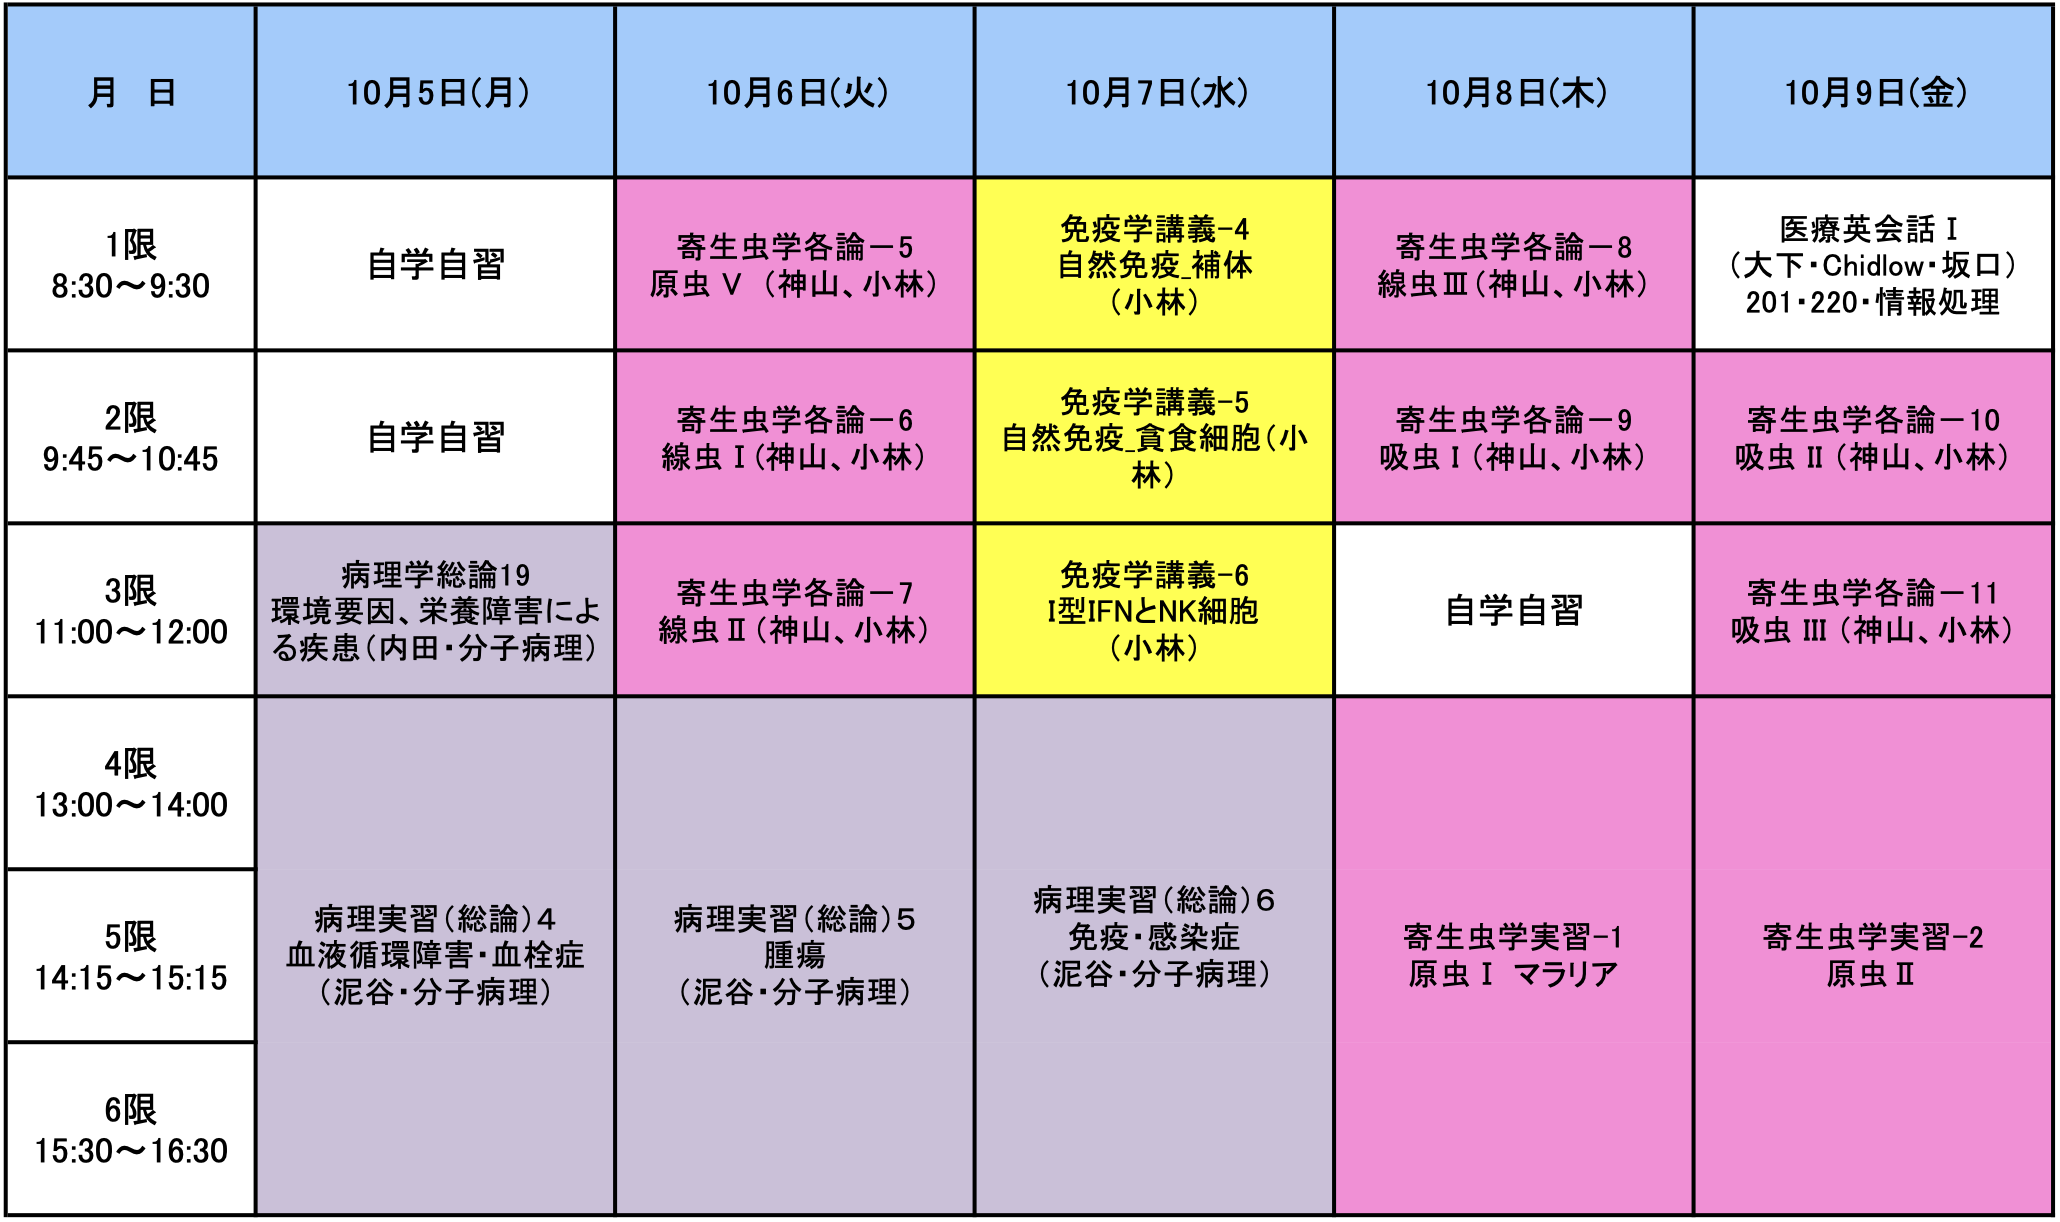
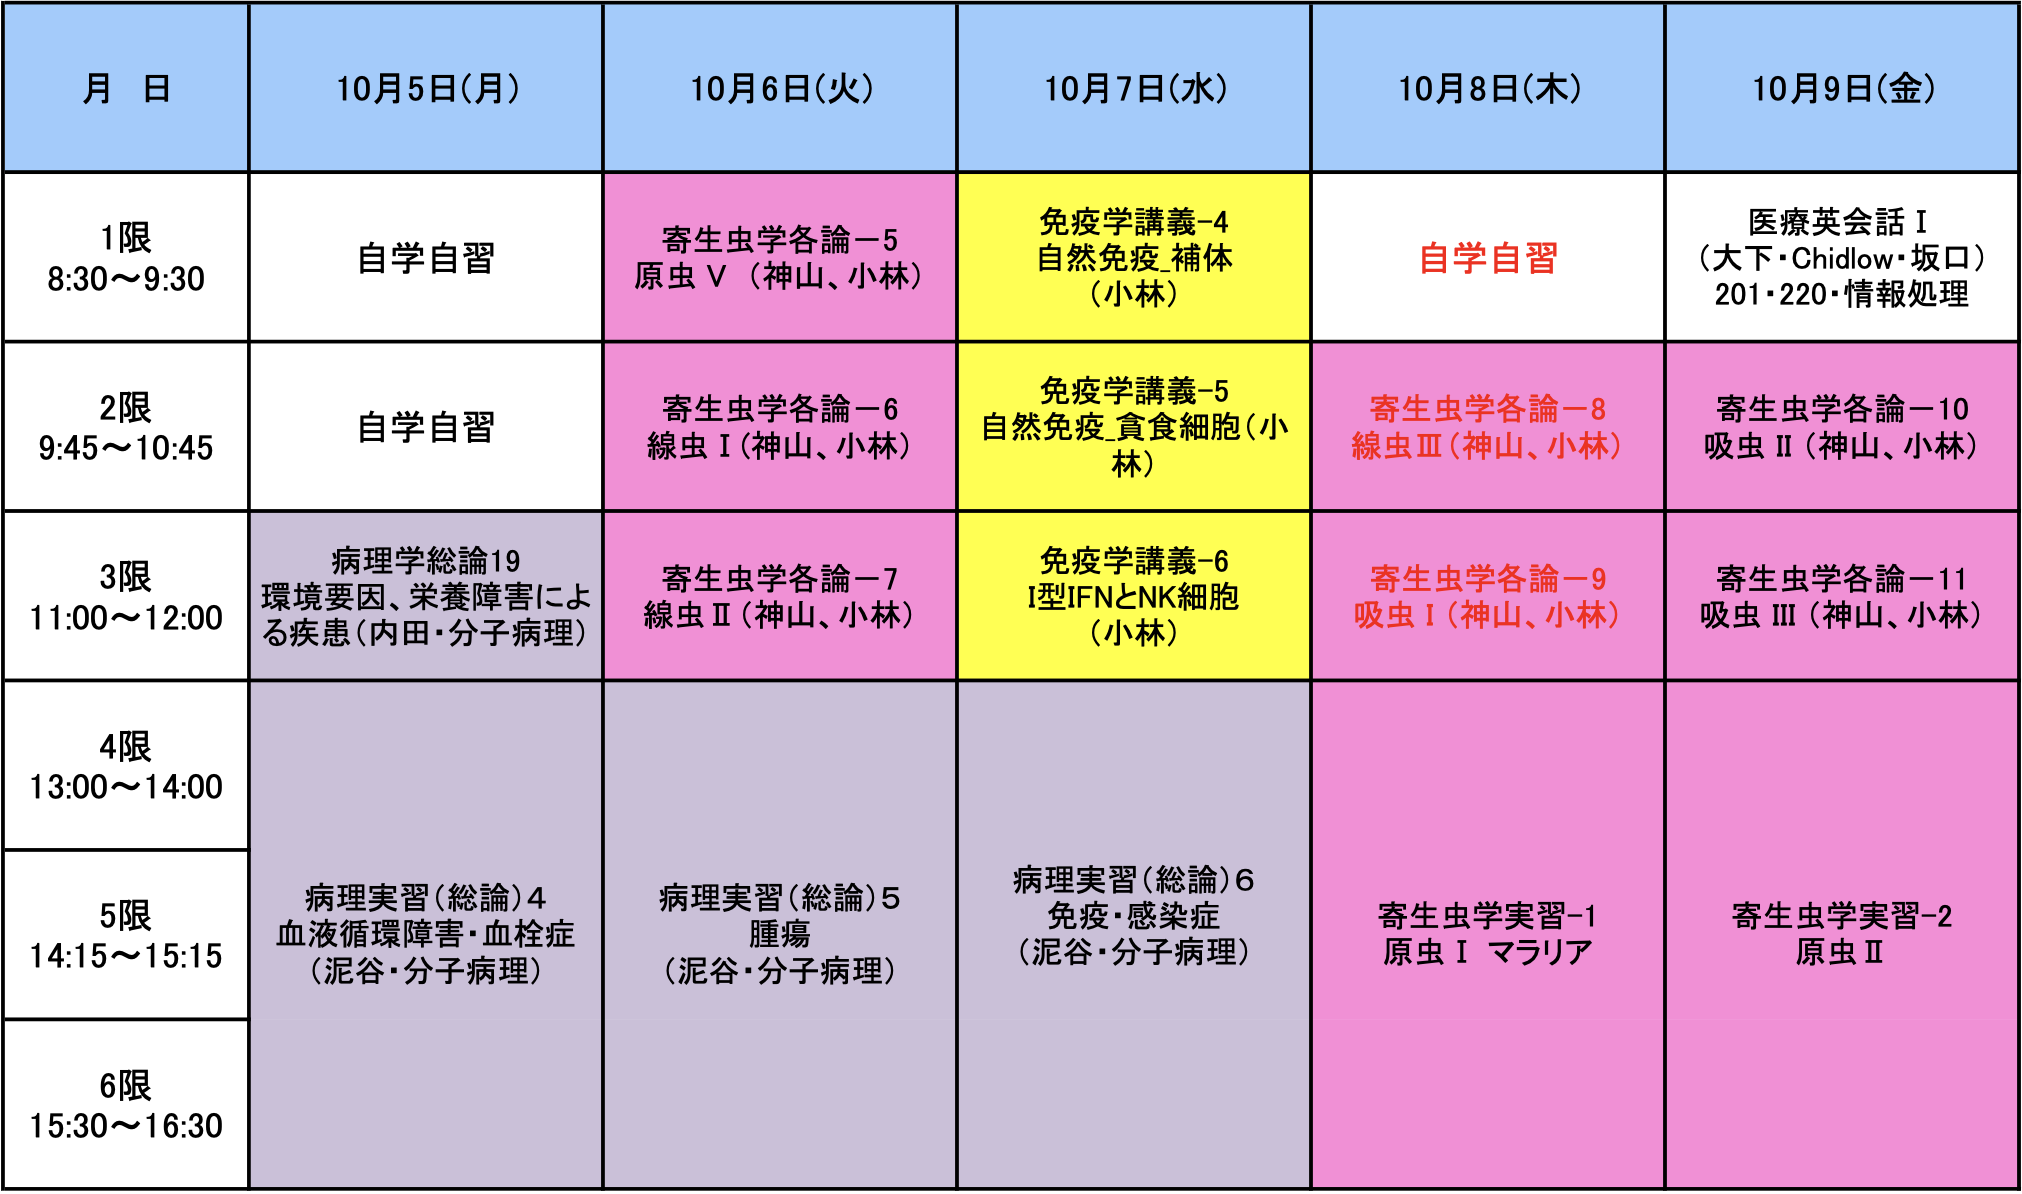
時間割変更

diff --git a/25/index.html b/25/index.html
@@ -30,7 +30,7 @@ table th, table td {
         </h1>
     </header>
     <main class="page-content">
-    <h3 class="top-object">今週の時間割（9月17日更新）</h3>
+    <h3 class="top-object">今週の時間割（9月25日更新）</h3>
     <div id="nav">
         <button id="prev">&lt;前の週</button>
         <button id="next">次の週&gt;</button>
@@ -171,7 +171,7 @@ table th, table td {
 
 
     <script>
-        const IMG_VERSION = "2026-09-17";
+        const IMG_VERSION = "2026-09-25";
         const today = new Date();
         let offset = 0;
 
